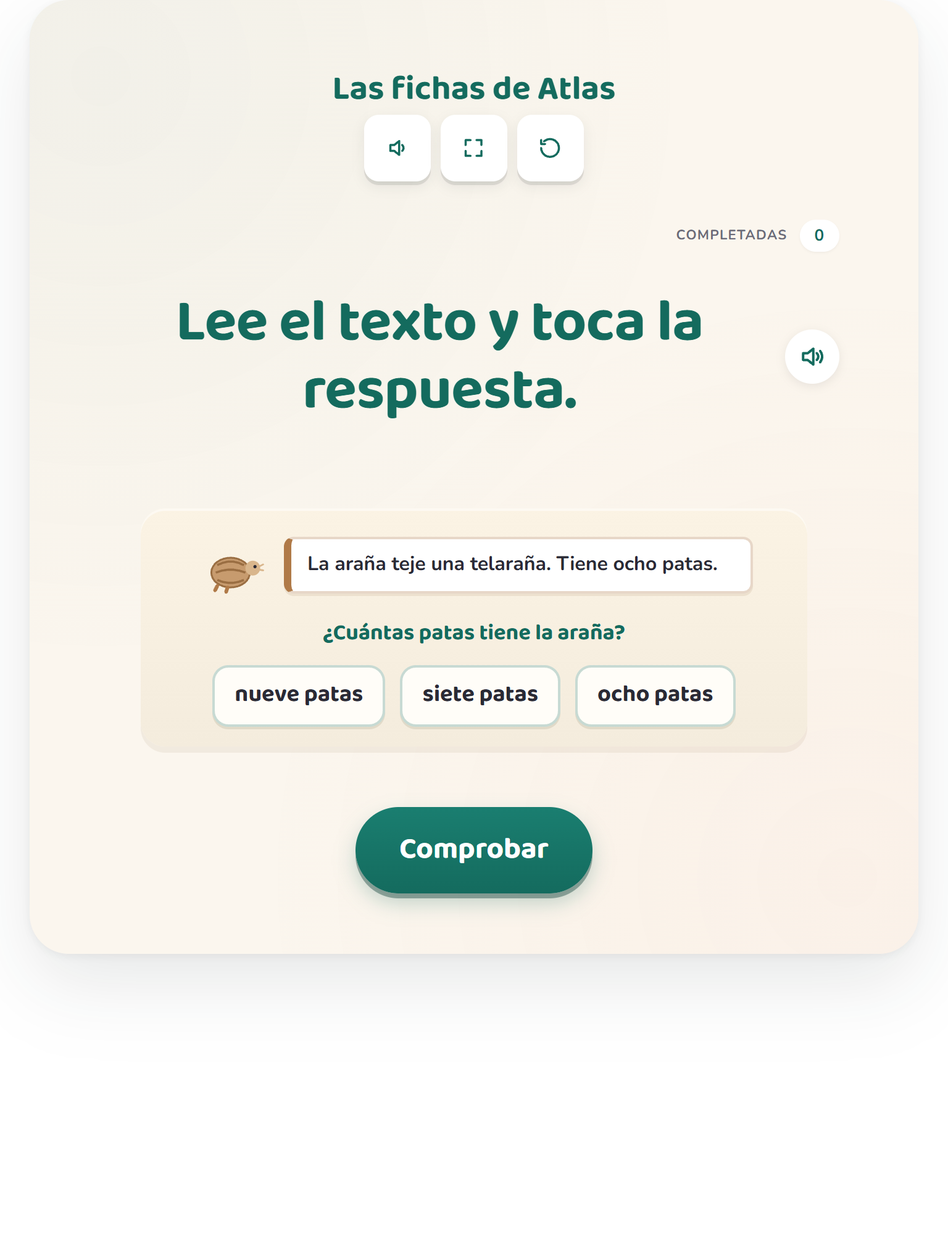
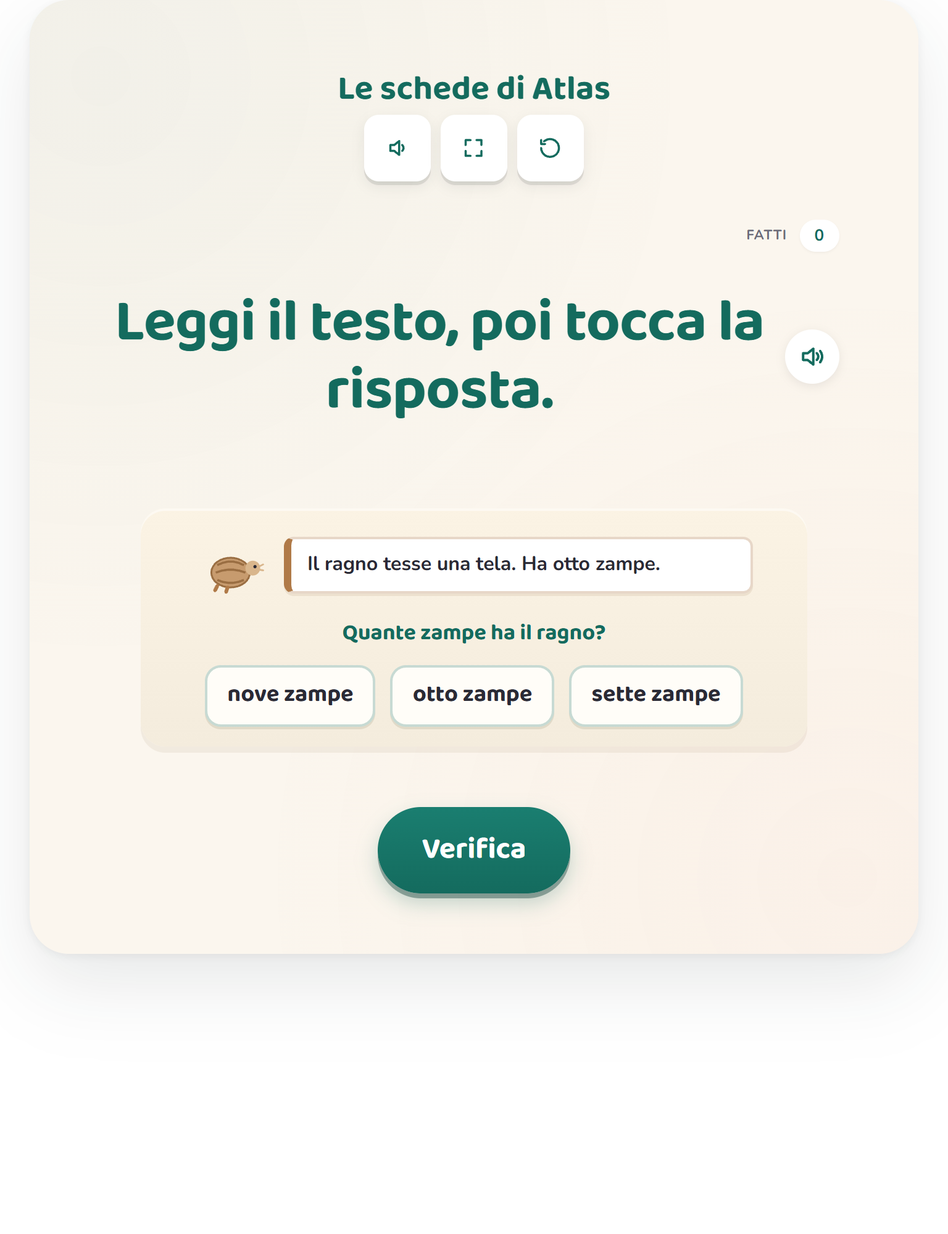
[FEATURE][I18N][IT] atlas-fact-files #78 — Le schede di Atlas (comprensione di testi informativi / domande sul testo, classe prima)
5th it ELA activity, and the FIRST it READING (RI) one. Informational-text WH-question: the
armadillo Atlas shows a 2-sentence fact + a key-detail question; the child taps the answer from
3 options. Text-only. A locale = translated roundsL10n.it (fact/question/answer/options) — the
de commit already made _loadActivity read roundsL10n[LANG]. 8 facts rebuilt in Italian, re-
verified against the REAL fact-detail-core: each oneMatch + the answer is a VERBATIM substring
of its fact (answerInFact) + distinct options; deckFacts positionBot 0.375 / longestBot 0.25 /
shortestBot 0 / fixedGuessBot 0.125, all ≤ 0.45; answer positions 0,1,2,0,1,2,0,2. Pedagogue
lexical guard: «piccoli insetti» (no diminutive); apostrophe reworks on the tree/cow facts.
GRADE classe prima (K→1, no Kindergarten grade; all siblings 1). STRAND «Comprensione di testi
informativi» via page.tsx STRAND_OVERRIDE (following es/fr/pt — de used strand-names.ts, but I
keep strand-names.ts UNTOUCHED). Activity-layer only; 0 core/shell/CSS/strand-names. §A.13.62 DoD
green (verify-fact-detail + visual-qa it+en 48/48, personal Read bees 768 + rain 360).

diff --git a/frontend/app/[locale]/activities/[slug]/page.tsx b/frontend/app/[locale]/activities/[slug]/page.tsx
@@ -65,7 +65,7 @@ const GRADE_OVERRIDE: Record<string, Record<string, string>> = {
   'inky-book-workshop.author-illustrator.rl-k-6': { de: '1', fr: '1', es: '1', pt: '1' },   // PT 1º ano (add pt:'1', = de/es/fr): NÃO há 🔊; a resposta vive INTEIRAMENTE numa frase escrita (o verbo do prompt ESCREVEU/DESENHOU/LENDO) — canal 100% texto mudo, o blurb do livro é decorativo. A fortiori 1º (picture-story foi 1º mesmo COM leitura em voz alta). Superfície de resposta = palavras escritas → não é desenhável p/ educação infantil, por mais pré-escolar que o tema soe. Âncora de máquina = CCSS RL.K.6. // ES 1.º de primaria (override del native 'K', que auto-mapearía a «Kínder» = falso). Converge con de+fr pero por una razón MEXICANA más fuerte. #82: el bump alemán K→Klasse 1 es artefacto de sistema puro (el Kindergarten alemán no es escuela) → no transfiere solo; pero Francia tiene GS, que SÍ es escuela, y aun así lo subió a CP → demanda de contenido → transfiere. 🚨 LA PRUEBA DECISIVA, y salió de LEER EL MOTOR, no el plan: `speak()` sólo dispara en el handler del tap (:116, feedback DESPUÉS de elegir) y NO existe afordancia 🔊 en ninguna parte del motor (verificado: grep = 0) → NADA se lee en voz alta ANTES de responder. Y la respuesta vive ENTERAMENTE en el verbo del prompt ESCRITO (ESCRIBIÓ/DIBUJÓ/LEYENDO): el niño no puede acertar sin descifrar SOLO una oración escrita. Todo el canal es TEXTO MUDO. picture-story se ruleó 1.º aunque su 🔊 SÍ leía el cuento, bajo «el audio baja la carga del ESTÍMULO, nunca de la RESPUESTA»; aquí no hay audio en absoluto → A FORTIORI: si picture-story no es alcanzable en Fase 2, ésta lo es menos. La Fase 2 de SEP espera LECTURA NO CONVENCIONAL (la docente lee en voz alta; el niño responde oral/gestual/pictóricamente) — una actividad cuyo único portador de respuesta es una oración escrita sin voz NO es diseñable para preescolar, por muy preescolar que suene su tema. CONTRA-ARGUMENTO DEL EMOJI, planteado y RECHAZADO (línea #83): (1) ✍🎨📖 desambiguan la TARJETA, no la RONDA — aunque el niño mapee ✍→«el que escribe», sigue sin saber QUÉ se le pregunta, porque el prompt es la pista y el prompt es texto mudo; (2) en promptRead el emoji ESTORBA: 📖 es icono de un LIBRO (objeto) mientras ✍ y 🎨 son MANOS HACIENDO (acciones) — el set no es autodescriptivo; (3) «más apoyo ≠ menor grado cuando la superficie de respuesta no cambia». Cláusula de escape del K-cluster ACTIVADA: el contenido NOMINAL (autor/ilustrador) sí existe en preescolar SEP, pero ORAL y ACOMPAÑADO (la docente muestra la portada y pregunta); el DISEÑO de aquí (leer solo, elegir entre tres palabras escritas) es contenido de primaria formal. ⚠ Contraste comparison-creek → 'PK': bajó porque comparar numerales 1-10 es preescolar mexicano Y SU SUPERFICIE DE RESPUESTA ERAN NUMERALES; aquí la superficie son PALABRAS. Ambos precedentes obedecen un criterio: MANDA LA SUPERFICIE DE RESPUESTA. // Buchrollen Autor/Illustrator (Klasse-1 Buch-/Medienkunde) → DE Klasse 1 (en Kindergarten); K-cluster K-label. FR CP: « identifier l'auteur et l'illustrateur » = culture du livre, attendu cycle-2 (« Lecture et compréhension de l'écrit », domaine CP) + parité DE Klasse 1 + précédent K-cluster picture-story/atlas → CP; native 'K' ne mappe PAS en GS (pas de domaine maternelle « rôles du livre »)
   'field-guide.text-features.1-ri-5': { de: '2', fr: '2', es: '2', pt: '2' },      // PT 2º ano (override do native '1'; harmoniza de Klasse 2/es 2.º/fr CE2): operar o aparato de busca do livro (segurar a pergunta + ler ~9 linhas + comparar 3 glosas) presupõe leitura automatizada a serviço de uma tarefa → 2º, dentro da Fase 3 (1º-2º), colocação honesta. // ES 2.º de primaria (override del native '1'; maestra-decisive, converge de+fr): 1.º es el año de la alfabetización inicial — el SEP de 1.º sí EXPLORA las partes del libro, pero eso es reconocer que el índice existe, no hojearlo estratégicamente; aquí se requiere lectura silenciosa de ~9 renglones/ronda + sostener la pregunta + comparar 3 glosas = lectura autónoma al servicio de una tarea. El override es DENTRO de la Fase 3 (1.º-2.º) → colocación honesta, no salto curricular. Escalera: atlas #78=1.º (solo LEE 2 oraciones) < ésta (leer + navegar) < booker #75=3.º (exige el SISTEMA alfabético; aquí no se alfabetiza nada). // USE text features (Inhaltsverzeichnis/Glossar nutzen) presupposes automatized reading → DE Klasse 2 (en Grade 1; also_teaches 2.RI.5). FR CE1: utiliser les outils/organisateurs d'un documentaire (sommaire/glossaire/index/titres) pour LOCALISER une info présuppose un décodage automatisé (BO 2020 « Pratiquer différentes formes de lecture », repères CE1); native '1' does NOT auto-map to CP
   'picture-story.read.rl-k-1': { de: '1', fr: '1', es: '1', pt: '1' },             // PT 1º ano (override do native K): o 🔊 lê a HISTÓRIA, não a pergunta nem as 3 cartas-resposta (texto SEM áudio) → o apoio baixa a carga do ESTÍMULO, nunca da RESPOSTA → a criança precisa LER p/ responder; conjunto de opções escritas = expectativa de 1º ano na BNCC, não educação infantil. Harmoniza de Klasse 1/es 1.º/fr CP; coerente com o gêmeo RI atlas #78 (1º). // ES 1.º de primaria (override del native 'K'): el criterio NO es «la superficie de respuesta es texto» sino **¿hay texto que el niño DEBE descifrar SIN apoyo de audio?** — la 🔊 lee EL CUENTO; NO lee la pregunta ni las 3 tarjetas de respuesta: ésas son texto SIN VOZ. El audio baja la carga del ESTÍMULO, nunca de la RESPUESTA → aun usando todos los apoyos, el niño tiene que leer. En SEP la Fase 2 responde oral/gestual/pictóricamente y NO se espera que descifre un set de opciones escritas → la actividad NO es alcanzable en Fase 2 tal como está diseñada. ⚠ el es-K-cluster NO la protege, y por qué importa: el K-cluster bloquea un DESFASE DE SISTEMA ESCOLAR (el Kindergarten alemán NO es escuela → todo lo escolar se empuja) = artefacto de calendario ajeno que con razón NO heredamos; pero FRANCIA tiene GS y SÍ es escuela, y aun así movió esto a CP → ése override es DEMANDA DE CONTENIDO, no calendario. México está en la posición de Francia (nuestro kínder ES escuela) → el razonamiento francés SÍ transfiere, el alemán solo NO. Lo sella el hermano: atlas #78 (RI.K.1, el gemelo informativo, misma superficie) es 1.º — ésta tiene MÁS andamiaje pero la MISMA demanda de respuesta; shipear el gemelo RL en Kínder con su gemelo RI en 1.º sería incoherente. **Más apoyo ≠ menor grado cuando la superficie de respuesta no cambia.** // story key-detail comprehension w/ read-aloud support → DE Klasse 1 (en Kindergarten); K-cluster K-label. FR CP: la surface-réponse est des cartes-réponses en TEXTE que l'enfant LIT (lu-vs-entendu = atlas #57 → CP; l'audio 🔊 est un étayage optionnel, pas la surface-réponse) → native 'K' ne mappe PAS en GS; le jumeau RL d'atlas RI
-  'atlas-fact-files.key-detail.ri-k-1': { de: '1', fr: '1', es: '1', pt: '1' },  // Sachtext-Leseverständnis (late-Klasse-1 Erstleser) → DE Klasse 1 (en Kindergarten); K-cluster K-label. PT RI.K.1 → 1º ano (pt:'1'): lee-vs-escucha — a criança DECODIFICA 2 frases + 3 alternativas escritas SOZINHA = leitura convencional → 1º EF, não Educação Infantil (leitura não convencional). STRAND route-override (não strand-names.ts, linha 146): o eixo mostrado reflete a MODALIDADE de acesso ao texto (lido vs ouvido) — propriedade da atividade. READ→"Compreensão de textos informativos"; futuro HEARD→"Escuta e compreensão de textos". BNCC EF12LP03 (localizar informações explícitas). Âncora de máquina = CCSS RI.K.1. FR CP: prélever une info explicite dans un COURT TEXTE AFFICHÉ (lu par soi-même) = attendu cycle-2 « Lecture et compréhension de l'écrit »; native 'K' does NOT auto-map to GS here — the GS/CP split is lu-vs-entendu, not difficulty (contrast nila-pond #47 RI.K.2 = idée principale ENTENDUE → GS). ES 1.º de primaria (override upward del native 'K'; operator-ruled): el preescolar SEP solo espera lectura NO convencional (la docente lee en voz alta) — aquí el niño DESCODIFICA SOLO 2 oraciones + 3 opciones escritas = lectura convencional → Fase 3 (1.º-2.º primaria); el corte lee-vs-escucha es decisivo en SEP igual que en fr (preescolar «escucha/comenta/interpreta» vs primaria «lee y localiza»); el es-K-cluster NO aplica — su cláusula de escape (contenido de primaria formal) se cumple; precedente #67 native-K→es '1'; converge de+fr
+  'atlas-fact-files.key-detail.ri-k-1': { de: '1', fr: '1', es: '1', pt: '1', it: '1' },  // Sachtext-Leseverständnis (late-Klasse-1 Erstleser) → DE Klasse 1 (en Kindergarten); K-cluster K-label. PT RI.K.1 → 1º ano (pt:'1'): lee-vs-escucha — a criança DECODIFICA 2 frases + 3 alternativas escritas SOZINHA = leitura convencional → 1º EF, não Educação Infantil (leitura não convencional). STRAND route-override (não strand-names.ts, linha 146): o eixo mostrado reflete a MODALIDADE de acesso ao texto (lido vs ouvido) — propriedade da atividade. READ→"Compreensão de textos informativos"; futuro HEARD→"Escuta e compreensão de textos". BNCC EF12LP03 (localizar informações explícitas). Âncora de máquina = CCSS RI.K.1. FR CP: prélever une info explicite dans un COURT TEXTE AFFICHÉ (lu par soi-même) = attendu cycle-2 « Lecture et compréhension de l'écrit »; native 'K' does NOT auto-map to GS here — the GS/CP split is lu-vs-entendu, not difficulty (contrast nila-pond #47 RI.K.2 = idée principale ENTENDUE → GS). ES 1.º de primaria (override upward del native 'K'; operator-ruled): el preescolar SEP solo espera lectura NO convencional (la docente lee en voz alta) — aquí el niño DESCODIFICA SOLO 2 oraciones + 3 opciones escritas = lectura convencional → Fase 3 (1.º-2.º primaria); el corte lee-vs-escucha es decisivo en SEP igual que en fr (preescolar «escucha/comenta/interpreta» vs primaria «lee y localiza»); el es-K-cluster NO aplica — su cláusula de escape (contenido de primaria formal) se cumple; precedente #67 native-K→es '1'; converge de+fr
   'nila-pond.main-idea-net.ri-k-2': { de: '1', es: 'PK', pt: 'PK' },                // Hauptaussage eines VORGELESENEN Sachtexts (Hörverstehen, mit Hilfestellung) → DE Klasse 1; sitzt unter marina RI.2.2/Klasse 3 (Selberlesen); K-cluster K-label. ES preescolar (operator-ruled: texto LEÍDO EN VOZ ALTA a un pre-lector = escucha-comprensión SEP preescolar; = fr GS; el niño ESCUCHA no descodifica → no aplica el es-K-cluster→'1'; precedente rhyme-shop #102 es:'PK'). PT Educação Infantil (pt:'PK' → chip "Educação infantil"; = es/fr): "a superfície de resposta manda" — estímulo=texto LIDO EM VOZ ALTA (pré-leitor OUVE, zero carga de decodificação) + resposta=escolher a ideia principal PELO SIGNIFICADO (não decodifica) = escuta-compreensão pura → BNCC Educação Infantil, campo "Escuta, fala, pensamento e imaginação" (EI03EF: ouvir/compreender/identificar do que trata um texto); NÃO 1º (eixo Leitura/escuta EF15LP01/03 pressupõe leitura do texto ESCRITO — contrast atlas RI.K.1 pt:'1', lá a criança DECODIFICA sozinha)
   'booker-glossary-desk.guide-words.l-2-4-e': { de: '3', fr: '3', es: '3', pt: '3', it: '3' },  // IT classe terza (pedagogue-decisive, converge siblings): Indicazioni classe-3 obiettivo lessico «Utilizzare il dizionario come strumento di consultazione»; abecedario+1ª lettera = classe 1-2, ma uso sistematico del dizionario + parole guida + confronto oltre la prima lettera = classe 3. // systematische Wörterbucharbeit (Leitwörter, 2nd/3rd-letter) → DE Klasse 3 / FR CE2 « usage du dictionnaire » (en Grade 2). ES 3.º primaria (maestra-decisive #75, override del manifest "2"): 1.º-2.º = abecedario + ordenar por 1ª letra, pero comparar 2ª/3ª letra + palabras guía + uso sistemático del diccionario = competencia de 3.º; converge con de/fr. PT 3º ano (override do manifest '2', pedagogue-decisive): abecedário + ordem alfabética por 1ª letra = 1º/2º, mas uso sistemático do dicionário + palavras-guia + comparação da 2ª/3ª letra = competência de 3º ano (entrada, não consolidação → não 4º); converge com de/fr/es. Strand "Análise linguística/semiótica" resolve pelo auto-map (Language) — SEM STRAND_OVERRIDE pt (a BNCC NÃO tem eixo Ortografia separado: ortografia/dicionário/ordem alfabética vivem dentro de Análise linguística/semiótica; segue o modelo fr, não es/de). Machine anchor = CCSS L.2.4.e
   'clock-digital.read-hour.1-md-b-3': { fr: '2', pt: '3' },                       // FR CE1 — lire l'horloge à aiguilles (heures) = CE1 attendu; PT 3º ano — ler relógio ANALÓGICO (de ponteiros) é EF03MA22 na BNCC (a única habilidade que nomeia relógios analógicos; o 2º ano só tem calendário EF02MA18 + duração com relógio DIGITAL EF02MA19); +2 vs CCSS grade 1, diverge de de/fr/es; en Grade 1 / de Klasse 1
@@ -154,7 +154,7 @@ const STRAND_OVERRIDE: Record<string, Record<string, string>> = {
   'juniper-story-lantern.central-message.rl-1-2': { fr: 'Comprendre et interpréter', es: 'Comprensión de textos literarios', pt: 'Compreensão de textos literários' }, // PT route override "Compreensão de textos literários" (= picture-story #82; NÃO strand-names.ts). O eixo é uma ÁREA curricular, não um degrau de dificuldade — a dificuldade está no chip de GRADO (picture-story 1º vs juniper 3º); ambas = compreensão de um texto literário LIDO, mesmo eixo, Fase mais profunda. Gate 0 quebra (objeto = CONTEÚDO/inferência) → NÃO "Gêneros textuais". NÃO cunhar "interpretação" (calca o fr). Best-fit EF35LP04 (inferir implícitos). // ES «Comprensión de textos literarios» — override POR ACTIVIDAD; ⚠ strand-names.ts NO SE TOCA: 'Reading: Literature' tiene sólo en+de y CINCO actividades vivas comparten ese strand, ya localizadas de TRES maneras distintas por actividad (picture-story→«Comprensión de textos literarios», bea→«Diversidad textual», story-spine/otto/willow→el eje narrado de escucha, precedente fr « Écouter de l'écrit et comprendre ») → una fila es en la tabla ETIQUETARÍA MAL a cuatro de ellas (en SEP el eje lo decide la MODALIDAD DE ACCESO = propiedad de la ACTIVIDAD; Alemania puede usar la tabla porque en la KMK el Bereich es propiedad del STRAND). Compuertas: 0 → la prueba del frell SE ROMPE («El frell se glomió porque era mucho más zibo que el grobo…» — quita los sustantivos de contenido y NADA rutea) → el objeto es CONTENIDO, no forma → NO «Diversidad textual» (el instrumento se valida solo: bea y author-purpose frelleados SÍ siguen ruteando por marcadores de forma — por eso ELLOS son compuerta 0 y éste no); 1 → literario → «Comprensión de textos literarios»; 2 → sin aparato de búsqueda → no «Búsqueda y manejo de información». Modalidad: el niño LEE (el 🔊 lee el CUENTO; las 3 tarjetas son texto SIN VOZ) → no «Escucha y comprensión de textos». ⚠ NO existe un eje SEP de interpretación — acuñar «Comprensión e interpretación» sería CALCAR a Francia (« Comprendre et interpréter » es un dominio francés REAL, por eso Francia pudo overridear; SEP no separa comprensión de interpretación) → RECHAZAR. Compartir el chip de picture-story es CORRECTO y un agente futuro se lo preguntará: el eje es un ÁREA CURRICULAR, no un peldaño de dificultad — la dificultad la carga el chip de GRADO (1.º vs 3.º); ambas hacen comprensión de un texto literario leído: mismo eje, distinta Fase, distinta profundidad. Que la misma práctica social reaparezca a través de las Fases con demanda creciente ES cómo funciona SEP. // FR CE1: dégager la morale d'une fable = interpréter le sens/le message au-delà du littéral (cycle-2 Lecture et compréhension de l'écrit); NOT « Écouter de l'écrit et comprendre » (maternelle/GS pré-lecteur); "Reading: Literature" has no fr in strand-names.ts; en/de fall through
   'contraction.apostrophe.l-2-2-c': { fr: 'L’orthographe' }, // FR CE1: l'apostrophe d'élision = une marque orthographique (comme la majuscule #32 wally-capital-crane, l'accent, la cédille) — NOT grammaire/lexique; "Language" has no fr in strand-names.ts; en/de fall through
   'field-guide.text-features.1-ri-5': { de: 'Lesen – mit Texten und Medien umgehen', fr: 'Lecture et compréhension de l’écrit', es: 'Búsqueda y manejo de información', pt: 'Práticas de estudo e pesquisa' }, // PT 2º ano: campo das PRÁTICAS DE ESTUDO E PESQUISA (BNCC) — usar os organizadores do texto (sumário/títulos/glossário/legendas) para LOCALIZAR uma informação num guia de campo de criaturas imaginárias; a criança não compreende o conteúdo, só opera o "mapa" do livro (Gate 1 LOCALIZAR, análogo ao es "Búsqueda y manejo de información"/de media-Bereich). NÃO "Compreensão de textos informativos" (#78 atlas = compreender) NEM "Estratégia de leitura" (amplo demais). Best-fit EF15LP03 (localizar informações explícitas, 1º-5º; stretch — organizadores específicos só no 4º-5º EF04LP20/EF05LP22). Âncora de máquina = CCSS 1.RI.5. // ES: SPLIT del chip de comprensión (modelo ALEMÁN, no francés). El fr colapsó PORQUE el francés no tiene dominio de medios/textos aparte; el ESPAÑOL SÍ lo tiene: el ámbito de ESTUDIO del SEP lleva la práctica social «búsqueda y manejo de información», que es literalmente usar el índice/los títulos/el glosario para LOCALIZAR — y abarca fuentes impresas Y DIGITALES (cubre la ronda del menú de forma nativa). Colapsar a «Comprensión de textos informativos» etiquetaría mal: el niño NUNCA tiene que entender qué ES un frell, solo operar el aparato de búsqueda del libro. NO «Estrategias de lectura» (demasiado amplio: predecir/inferir → se traslaparía con comprensión y perdería la especificidad de localizar). ⚠ ESTO AMPLÍA la regla RI/RL es fijada en atlas #78 (que tenía UN eje: modalidad) — regla vigente de 2 compuertas, EN ORDEN: (1) ¿COMPRENDER o LOCALIZAR? localizar → «Búsqueda y manejo de información» (sin importar modalidad); comprender → (2) ¿LEE o ESCUCHA? lee → «Comprensión de textos informativos» (RL: «…de textos literarios»); escucha → «Escucha y comprensión de textos». Aditiva: no altera ningún hermano ya shipeado. 🚩 Candidato de reconciliación futuro (NO relitigar aquí): booker #75 shipeó «Ortografía» pero consultar el diccionario para ENCONTRAR una palabra es localizar. // FR CE1: utiliser les outils d'un texte documentaire (sommaire/glossaire/index/titres) pour trouver une information = stratégie de lecture (« Pratiquer différentes formes de lecture / se repérer dans un texte ») au sein du domaine cycle-2 « Lecture et compréhension de l'écrit »; le français n'a PAS de domaine « manipuler textes et médias » séparé (contrairement à l'allemand « Lesen – mit Texten und Medien umgehen »); = atlas #57 / bea #50; "Reading: Informational Text" has no fr in strand-names.ts; en/de fall through
-  'atlas-fact-files.key-detail.ri-k-1': { fr: 'Lecture et compréhension de l’écrit', es: 'Comprensión de textos informativos', pt: 'Compreensão de textos informativos' }, // PT: READ (a criança decodifica sozinha) → eixo Leitura/escuta, prática de compreensão em leitura → "Compreensão de textos informativos" (NÃO o eixo cru "Leitura/escuta", que funde leitura+escuta — a distinção de modalidade é justamente o que o override marca; NÃO colide com o chip de fonética/RF). Route-override, NÃO strand-names.ts (o eixo depende da MODALIDADE lido-vs-ouvido, propriedade da atividade). Regra futura pt RI/RL: READ→"Compreensão de textos informativos" (RL: "…de textos literários") / HEARD→"Escuta e compreensão de textos". // FR CP: prélever une information explicite dans un court texte documentaire AFFICHÉ (lu par soi-même) = compréhension LITTÉRALE, attendu cycle-2 « Lecture et compréhension de l'écrit »; NOT « Comprendre et interpréter » (sur-revendique l'inférence — ici récupération verbatim, aucune interprétation); NOT « Écouter de l'écrit et comprendre » (label GS/pré-lecteur — willow/nila/story-spine, texte ENTENDU); "Reading: Informational Text" has no fr in strand-names.ts (would leak EN); en/de fall through. ES (operator-ruled): per-activity override como el fr, NO entry en strand-names.ts — en SEP el eje lo decide la MODALIDAD DE ACCESO al texto (leído vs escuchado), una propiedad de la ACTIVIDAD, no del strand; una entry de tabla etiquetaría mal a los hermanos narrados (nila-pond RI.K.2 = texto LEÍDO EN VOZ ALTA → «Escucha y comprensión de textos»). REGLA para las ~6 RI/RL futuras es: clasificar lee-vs-escucha primero → lee = «Comprensión de textos informativos» (RL: «…de textos literarios»); escucha = «Escucha y comprensión de textos». NO usar «Comprensión lectora»: ya es el chip es de "Reading: Foundational Skills" (fonética) en 5 actividades vivas — colisión + ese mapeo RF está MAL (debería ser «Alfabetización inicial»; comisión aparte, 5 actividades)
+  'atlas-fact-files.key-detail.ri-k-1': { fr: 'Lecture et compréhension de l’écrit', es: 'Comprensión de textos informativos', pt: 'Compreensão de textos informativos', it: 'Comprensione di testi informativi' }, // PT: READ (a criança decodifica sozinha) → eixo Leitura/escuta, prática de compreensão em leitura → "Compreensão de textos informativos" (NÃO o eixo cru "Leitura/escuta", que funde leitura+escuta — a distinção de modalidade é justamente o que o override marca; NÃO colide com o chip de fonética/RF). Route-override, NÃO strand-names.ts (o eixo depende da MODALIDADE lido-vs-ouvido, propriedade da atividade). Regra futura pt RI/RL: READ→"Compreensão de textos informativos" (RL: "…de textos literários") / HEARD→"Escuta e compreensão de textos". // FR CP: prélever une information explicite dans un court texte documentaire AFFICHÉ (lu par soi-même) = compréhension LITTÉRALE, attendu cycle-2 « Lecture et compréhension de l'écrit »; NOT « Comprendre et interpréter » (sur-revendique l'inférence — ici récupération verbatim, aucune interprétation); NOT « Écouter de l'écrit et comprendre » (label GS/pré-lecteur — willow/nila/story-spine, texte ENTENDU); "Reading: Informational Text" has no fr in strand-names.ts (would leak EN); en/de fall through. ES (operator-ruled): per-activity override como el fr, NO entry en strand-names.ts — en SEP el eje lo decide la MODALIDAD DE ACCESO al texto (leído vs escuchado), una propiedad de la ACTIVIDAD, no del strand; una entry de tabla etiquetaría mal a los hermanos narrados (nila-pond RI.K.2 = texto LEÍDO EN VOZ ALTA → «Escucha y comprensión de textos»). REGLA para las ~6 RI/RL futuras es: clasificar lee-vs-escucha primero → lee = «Comprensión de textos informativos» (RL: «…de textos literarios»); escucha = «Escucha y comprensión de textos». NO usar «Comprensión lectora»: ya es el chip es de "Reading: Foundational Skills" (fonética) en 5 actividades vivas — colisión + ese mapeo RF está MAL (debería ser «Alfabetización inicial»; comisión aparte, 5 actividades)
   'bea-two-bookshelves.story-or-fact.rl-1-5': { de: 'Lesen – mit Texten und Medien umgehen', fr: 'Lecture et compréhension de l’écrit', es: 'Diversidad textual', pt: 'Gêneros textuais' }, // PT 1º ano (sem grade override; native RL.1.5 G1, harmoniza de Klasse 1/es 1.º/fr CP). STRAND route override "Gêneros textuais" (NOT strand-names.ts 'Reading: Literature'): Gate-0 (§20.9 3-gate) — o objeto de aprendizagem é o TEXTO EM SI, classificar o gênero (história vs livro de verdade) pelas pistas de superfície da capa, sem compreender o conteúdo; termo-organizador da BNCC LP (gêneros textuais/discursivos), preferido ao es "Diversidad textual" (descritor mais solto). BNCC eixo Leitura; best-fit EF15LP01 (função social/finalidade do texto). NÃO "Compreensão de textos…" (#80 + reservado p/ compreensão de conto real) NEM "Práticas de estudo e pesquisa" (#80 field-guide LOCATE). Âncora de máquina = CCSS RL.1.5. // ES: NUEVA cubeta. El tell decisivo: la compuerta 2 de la regla pregunta «¿el niño LEE o ESCUCHA EL TEXTO?» — en singular; aquí hay TRES textos de DOS clases y la CLASE es el aprendizaje. NO «Comprensión de textos literarios» (en la mitad de las rondas lo correcto es RECHAZAR el libro literario); NO «Comprensión de textos informativos» (el niño nunca aprende nada de lo que dice el libro de datos); NO «Búsqueda y manejo de información» (la respuesta tentadora + el patrón alemán literal: elegir una fuente SÍ es práctica del ámbito de Estudio, pero solo en las 4 rondas de datos — las 4 de cuento son Literatura pura → cruza AMBOS ámbitos y no pertenece a la práctica social de ninguno; además #80 ya posee ese chip para un acto distinto); NO «Estrategias de lectura» (ya rechazado en #80 por amplio). «Diversidad textual» = el término SEP/NEM vivo de este campo (los textos vienen en clases, cada una con un propósito; el niño arma su repertorio textual desde el acervo), se lee como EJE para una maestra mexicana y es consistente con el léxico de chips. ⚠ AMPLÍA la regla es RI/RL otra vez — regla vigente de 3 COMPUERTAS, EN ORDEN: (0) ¿el objeto del aprendizaje es el TEXTO MISMO (qué tipo es, para qué sirve) o su CONTENIDO? el texto mismo → «Diversidad textual»; el contenido → (1). 🔒 GUARDRAIL de la compuerta 0: solo dispara cuando el niño NO necesita entender lo que el texto DICE — clasifica por pistas de superficie (título/portada/formato); si hace falta entender el contenido, es la compuerta 1 (esto es lo que mantiene a #80 en la 1). La 0 va PRIMERO: puesta al final nunca se alcanzaría — «clasificar por tipo» se colaría en la 1 como un «comprender» difuso y etiquetaría mal. (1) ¿COMPRENDER o LOCALIZAR? localizar → «Búsqueda y manejo de información». (2) ¿LEE o ESCUCHA? lee → «Comprensión de textos informativos» (RL: «…de textos literarios»); escucha → «Escucha y comprensión de textos». ⚠ «Comprensión de textos literarios» queda SIN USAR — reservado para la primera actividad de comprensión de CUENTO real (personajes/trama/mensaje); bea NO la consume. ⚠ NO añadir `es` a la fila `Reading: Literature` de strand-names.ts: etiquetaría mal a bea Y a todo hermano narrado futuro. // FR CP: reconnaître le type d'un livre — distinguer un récit d'un texte documentaire (« reconnaître les principaux genres de textes ») = compétence cycle-2 dès le CP, domaine « Lecture et compréhension de l'écrit »; NOT « Comprendre et interpréter » (= extraire/interpréter le SENS dans un texte; ici on CLASSE le texte par genre depuis les indices de couverture); "Reading: Literature" has no fr in strand-names.ts; en/de fall through
   'two-tales.compare.rl-1-9': { fr: 'Lecture et compréhension de l’écrit', es: 'Comprensión de textos literarios', pt: 'Compreensão de textos literários' }, // PT route override "Compreensão de textos literários" (= picture-story #82 / point-of-view #89 / story-spine #92 / marlo #94): COMPREENDE (compara duas narrativas, não localiza) + LÊ (as duas histórias exibidas como texto, 🔊 apoio); campo artístico-literário. NÃO Ampliação do vocabulário (sem foco lexical). Route override, NÃO strand-names.ts ('Reading: Literature' só en/de → vazaria EN). // ES «Comprensión de textos literarios» (STRAND_OVERRIDE por-actividad; NO strand-names.ts): 2 compuertas → (1) comprende (COMPARA dos cuentos, no localiza); (2) LEE (los dos cuentos se muestran como texto + audio-apoyo — precedente story-spine #92). Ambos cuentos literarios → mismo chip que picture-story #82/juniper #85/story-spine #92/marlo #94. // FR CE1: comparer deux histoires (ce qui est pareil / ce qui arrive dans une seule) = mise-en-relation sur indices EXPLICITES (« a perdu… retrouvé » → « Perdu, puis retrouvé »), reconnaissance/classification d'un événement narré, PAS de l'inférence → domaine cycle-2 « Lecture et compréhension de l'écrit » (= bea #50/atlas #57/field-guide #58/author-purpose #61); NOT « Comprendre et interpréter » (retell #49/fable #52/portrait #56); "Reading: Literature" has no fr in strand-names.ts; en/de fall through
   'picture-story.read.rl-k-1': { fr: 'Lecture et compréhension de l’écrit', es: 'Comprensión de textos literarios', pt: 'Compreensão de textos literários' }, // PT route override "Compreensão de textos literários" (NÃO strand-names.ts): CONTEÚDO não texto-em-si; COMPREENDER não LOCALIZAR (sem aparato de busca, material literário, conjunto inclui ordem/porquê/sentimento — nenhum escaneável); LER não ESCUTAR. 1ª atividade no eixo LITERATURA (vs #78/#80 informacional/estudo). Route-level porque o strand 'Reading: Literature' compartilhado também guarda narrações ESCUTADAS → "Escuta e compreensão de textos"; o eixo é definido pela modalidade de acesso. Best-fit EF15LP03 (order/why/feeling inferenciais → stretch leve, EF15LP04 co-fit). Âncora de máquina = CCSS RL.K.1. // ES: **el chip RESERVADO por fin DISPARA.** Recorrido de las 3 compuertas: (0) ¿el TEXTO MISMO o su CONTENIDO? → CONTENIDO (el niño debe entender lo que el cuento DICE; el guardrail es explícito) → NO «Diversidad textual». (1) ¿COMPRENDER o LOCALIZAR? → COMPRENDER; la respuesta tentadora es «localizar» porque quién/qué/dónde parecen recuperación literal — se rechaza: «Búsqueda y manejo de información» es la práctica del ámbito de Estudio de operar el APARATO DE BÚSQUEDA de una fuente (índice/glosario/menú), que posee #80; aquí NO hay aparato ni fuente que navegar y el material es literario. **Tell decisivo: el set incluye ORDEN, POR QUÉ y EMOCIÓN — ninguna es escaneable; cada una exige sostener el cuento completo.** (2) ¿LEE o ESCUCHA? → LEE (ver GRADE_OVERRIDE) → «Comprensión de textos literarios». 1.ª actividad es que aterriza limpia en el ámbito de LITERATURA (atlas #78 y field-guide #80 viven en ESTUDIO) — por eso la cubeta reservada dispara ahora y no antes. ⚠ **Per-activity override; strand-names.ts queda BYTE-IDÉNTICO para es.** El alemán SÍ metió entry de tabla (`Reading: Literature`→de); es NO puede — y produciría un MISLABEL VIVO, no hipotético: el strand `Reading: Literature` ya contiene `story-spine.role.rl-k-3` y `willow-story-corner.compare-tales.rl-k-9`, actividades NARRADAS donde el niño ESCUCHA y sin override es → una entry las estamparía «Comprensión de textos literarios» cuando pertenecen a «Escucha y comprensión de textos» [⚠ SUPERSEDED 2026-07-21 para story-spine: #92 shipeó es LEE=«Comprensión de textos literarios» (operator-ratificado, modalidad de LECTURA — pies mostrados + barajado que obliga a leer); story-spine NO es «Escucha». otto/willow se clasifican por su propia modalidad al construirse] (y también contiene bea #81, protegida por su propio override — lo que prueba que strand ≠ eje). Razón estructural (ratificada en #78): en SEP el eje lo decide la MODALIDAD DE ACCESO, propiedad de la ACTIVIDAD, no del strand; el alemán puede permitirse la tabla porque en KMK el Bereich SÍ es propiedad del strand. El fr hizo exactamente esto. // FR CP: lire une courte histoire en 3 vignettes (texte affiché + audio d'appui) et répondre à des questions de détail clé en LISANT les 3 cartes-réponses = compréhension de l'écrit lu (surface-réponse textuelle → CP, le jumeau RL d'atlas #57 RI); NOT « Écouter de l'écrit et comprendre » (GS/pré-lecteur, réponse non-textuelle — otto #59/story-spine/willow/nila); "Reading: Literature" has no fr in strand-names.ts (would leak EN); en/de fall through
@@ -556,7 +556,7 @@ export default async function ActivityPage({ params }: { params: PageParams }) {
   // applied here to the iframe-loaded wrapper URL (the only un-busted
   // link in the activity-page → mini-tool chain). The wrapper reads
   // only `activity` / `lang` / `embed` params; `v` is harmless to it.
-  const ACTIVITY_WRAPPER_VERSION = '9.530';
+  const ACTIVITY_WRAPPER_VERSION = '9.531';
 
   const iframeSrc =
     `/mini-tools/${row.tool}.html?v=${ACTIVITY_WRAPPER_VERSION}` +

diff --git a/mini tools/atlas-fact-files-activity.js b/mini tools/atlas-fact-files-activity.js
@@ -21,13 +21,13 @@
 
   function speak(text) {
     try { if (global.LCSAudio && global.LCSAudio.speak) { global.LCSAudio.speak({ type: 'word', text: text, lang: (LANG === 'es' ? 'es-MX' : LANG === 'pt' ? 'pt-BR' : LANG), rate: 0.95 }); return; }
-      if (global.speechSynthesis && global.SpeechSynthesisUtterance) { var u = new global.SpeechSynthesisUtterance(text); u.rate = 0.95; u.lang = (LANG === 'fr' ? 'fr-FR' : LANG === 'de' ? 'de-DE' : LANG === 'es' ? 'es-MX' : LANG === 'pt' ? 'pt-BR' : 'en-US'); global.speechSynthesis.cancel(); global.speechSynthesis.speak(u); } } catch (e) {}
+      if (global.speechSynthesis && global.SpeechSynthesisUtterance) { var u = new global.SpeechSynthesisUtterance(text); u.rate = 0.95; u.lang = (LANG === 'fr' ? 'fr-FR' : LANG === 'de' ? 'de-DE' : LANG === 'es' ? 'es-MX' : LANG === 'pt' ? 'pt-BR' : LANG === 'it' ? 'it-IT' : 'en-US'); global.speechSynthesis.cancel(); global.speechSynthesis.speak(u); } } catch (e) {}
   }
   function shuffle(arr) { var a = arr.slice(), i, j, t; for (i = a.length - 1; i > 0; i--) { j = Math.floor(Math.random() * (i + 1)); t = a[i]; a[i] = a[j]; a[j] = t; } return a; }
 
   function armadilloSVG() {
     /* es: «armadillo» is the MX everyday word — NOT «tatú» (S. American) / «cusuco» (C. American). */
-    return '<svg class="aff-arm-svg" viewBox="0 0 100 100" role="img" aria-label="' + (LANG === 'fr' ? 'Atlas le tatou' : LANG === 'de' ? 'Atlas, das Gürteltier' : LANG === 'es' ? 'Atlas, el armadillo' : LANG === 'pt' ? 'Atlas, o tatu' : 'Atlas the armadillo') + '">' +
+    return '<svg class="aff-arm-svg" viewBox="0 0 100 100" role="img" aria-label="' + (LANG === 'fr' ? 'Atlas le tatou' : LANG === 'de' ? 'Atlas, das Gürteltier' : LANG === 'es' ? 'Atlas, el armadillo' : LANG === 'pt' ? 'Atlas, o tatu' : LANG === 'it' ? 'Atlas, un armadillo' : 'Atlas the armadillo') + '">' +
       '<ellipse cx="48" cy="60" rx="26" ry="20" fill="#C79B6E"/>' +                /* shell */
       '<path d="M30 50 q18 -10 36 0 M28 60 q20 -8 40 0 M30 70 q18 8 36 0" stroke="#9A6E42" stroke-width="3" fill="none"/>' + /* bands */
       '<ellipse cx="48" cy="60" rx="26" ry="20" fill="none" stroke="#9A6E42" stroke-width="2.5"/>' +
@@ -45,17 +45,17 @@
       /* es: the kid-facing noun is «el texto» (the daily 1.º classroom word, SEP's "lee el texto y
          localiza información"); the TITLE keeps «fichas» (the file-card metaphor + 📁) and `win`
          keeps «el dato clave» — la ficha is the card, los datos are its content. */
-      title: { en: "Atlas's Fact Files", de: 'Atlas\' Fakten-Kartei', fr: 'Les fiches d’Atlas', es: 'Las fichas de Atlas', pt: 'As fichas do Atlas' },
+      title: { en: "Atlas's Fact Files", de: 'Atlas\' Fakten-Kartei', fr: 'Les fiches d’Atlas', es: 'Las fichas de Atlas', pt: 'As fichas do Atlas', it: 'Le schede di Atlas' },
       instruction: { en: 'Read the facts, then tap the answer to the question.', de: 'Lies den Sachtext und tippe dann auf die Antwort zur Frage.', fr: 'Lis le texte, puis tape la réponse à la question.', es: 'Lee el texto y toca la respuesta a la pregunta.', pt: 'Leia o texto e depois toque na resposta da pergunta.' },
-      prompt: { en: 'Read the facts, then tap the answer.', de: 'Lies den Sachtext und tippe auf die Antwort.', fr: 'Lis le texte, puis tape la réponse.', es: 'Lee el texto y toca la respuesta.', pt: 'Leia o texto e toque na resposta.' },
-      atlasIntro: { en: 'Read my fact, then find the answer hiding inside it!', de: 'Hallo, ich bin Atlas! Lies meinen kleinen Sachtext ganz genau – die Antwort steckt mitten im Text.', fr: 'Lis bien mon petit texte : la réponse se cache dedans !', es: 'Soy Atlas. Lee mi texto: ahí está la respuesta.', pt: 'Leia o meu texto: a resposta está escondida dentro dele!' },
-      hintPick: { en: 'The answer is right there in the facts — read them again.', de: 'Die Antwort steht schon im Text. Lies sie dort noch einmal nach!', fr: 'La réponse est dans le texte — relis-le bien.', es: 'La respuesta está en el texto. Léelo otra vez.', pt: 'A resposta está no texto — leia de novo.' },
+      prompt: { en: 'Read the facts, then tap the answer.', de: 'Lies den Sachtext und tippe auf die Antwort.', fr: 'Lis le texte, puis tape la réponse.', es: 'Lee el texto y toca la respuesta.', pt: 'Leia o texto e toque na resposta.', it: 'Leggi il testo, poi tocca la risposta.' },
+      atlasIntro: { en: 'Read my fact, then find the answer hiding inside it!', de: 'Hallo, ich bin Atlas! Lies meinen kleinen Sachtext ganz genau – die Antwort steckt mitten im Text.', fr: 'Lis bien mon petit texte : la réponse se cache dedans !', es: 'Soy Atlas. Lee mi texto: ahí está la respuesta.', pt: 'Leia o meu texto: a resposta está escondida dentro dele!', it: 'Ciao, sono Atlas! Leggi e trova la risposta nel testo.' },
+      hintPick: { en: 'The answer is right there in the facts — read them again.', de: 'Die Antwort steht schon im Text. Lies sie dort noch einmal nach!', fr: 'La réponse est dans le texte — relis-le bien.', es: 'La respuesta está en el texto. Léelo otra vez.', pt: 'A resposta está no texto — leia de novo.', it: 'La risposta è nel testo: leggi di nuovo.' },
       /* es §A.13.54: `hintWrong`/`win` render on ANY round while the answers span genders (leche
          fresca f / ocho patas f-pl / en el hielo frío m) → `hintWrong` anchors on the NEUTER clitic
          «lo»; `win` on the fixed masculine «el dato clave»; `hintPick`'s «Léelo» on «el texto».
          None agrees with a round-variable noun. */
-      hintWrong: { en: 'Look back at the facts and find the part that answers it.', de: 'Schau noch einmal in den Text. Dort steht die richtige Antwort!', fr: 'Regarde encore dans le texte : la réponse s’y trouve.', es: 'Vuelve a leer el texto y busca la parte que lo dice.', pt: 'Volte ao texto e ache a parte que responde.' },
-      win: { en: 'Yes! You found the key detail. 📁', de: 'Super! Du hast die wichtige Information gefunden. 📁', fr: 'Bravo ! Tu as trouvé l’information. 📁', es: '¡Sí! Encontraste el dato clave. 📁', pt: 'Isso! Você achou a informação. 📁' }
+      hintWrong: { en: 'Look back at the facts and find the part that answers it.', de: 'Schau noch einmal in den Text. Dort steht die richtige Antwort!', fr: 'Regarde encore dans le texte : la réponse s’y trouve.', es: 'Vuelve a leer el texto y busca la parte que lo dice.', pt: 'Volte ao texto e ache a parte que responde.', it: 'Torna al testo e cerca la parte che risponde.' },
+      win: { en: 'Yes! You found the key detail. 📁', de: 'Super! Du hast die wichtige Information gefunden. 📁', fr: 'Bravo ! Tu as trouvé l’information. 📁', es: '¡Sí! Encontraste el dato clave. 📁', pt: 'Isso! Você achou a informação. 📁', it: 'Sì! Hai trovato il dettaglio giusto. 📁' }
     },
     defaults: {},
 
@@ -81,7 +81,7 @@
 
       var row = api.el('div', 'aff-row');
       var arm = api.el('div', 'aff-arm'); arm.innerHTML = armadilloSVG(); row.appendChild(arm);
-      var fileb = api.el('button', 'aff-fact'); fileb.type = 'button'; fileb.setAttribute('aria-label', (LANG === 'fr' ? 'écouter le texte' : LANG === 'de' ? 'Den Sachtext anhören' : LANG === 'es' ? 'Escuchar el texto' : LANG === 'pt' ? 'ouvir o texto' : 'hear the facts'));
+      var fileb = api.el('button', 'aff-fact'); fileb.type = 'button'; fileb.setAttribute('aria-label', (LANG === 'fr' ? 'écouter le texte' : LANG === 'de' ? 'Den Sachtext anhören' : LANG === 'es' ? 'Escuchar el texto' : LANG === 'pt' ? 'ouvir o texto' : LANG === 'it' ? 'ascolta il testo' : 'hear the facts'));
       fileb.textContent = v.fact;
       fileb.addEventListener('click', function () { speak(v.fact); });
       row.appendChild(fileb);

diff --git a/mini tools/atlas-fact-files-activity.html b/mini tools/atlas-fact-files-activity.html
@@ -17,7 +17,7 @@
        NOTE: bump ?v=N on EVERY change to atlas-fact-files-activity.js / fact-detail-core.js (§A.13.42). -->
   <script src="/mini-tools/lcs-shell.js?v=5"></script>
   <script src="/mini-tools/fact-detail-core.js?v=1"></script>
-  <script src="/mini-tools/atlas-fact-files-activity.js?v=5"></script>
+  <script src="/mini-tools/atlas-fact-files-activity.js?v=6"></script>
   <script>
     LCS.mount(AtlasFactFilesActivity, { mount: '#lcs-root' });
   </script>
